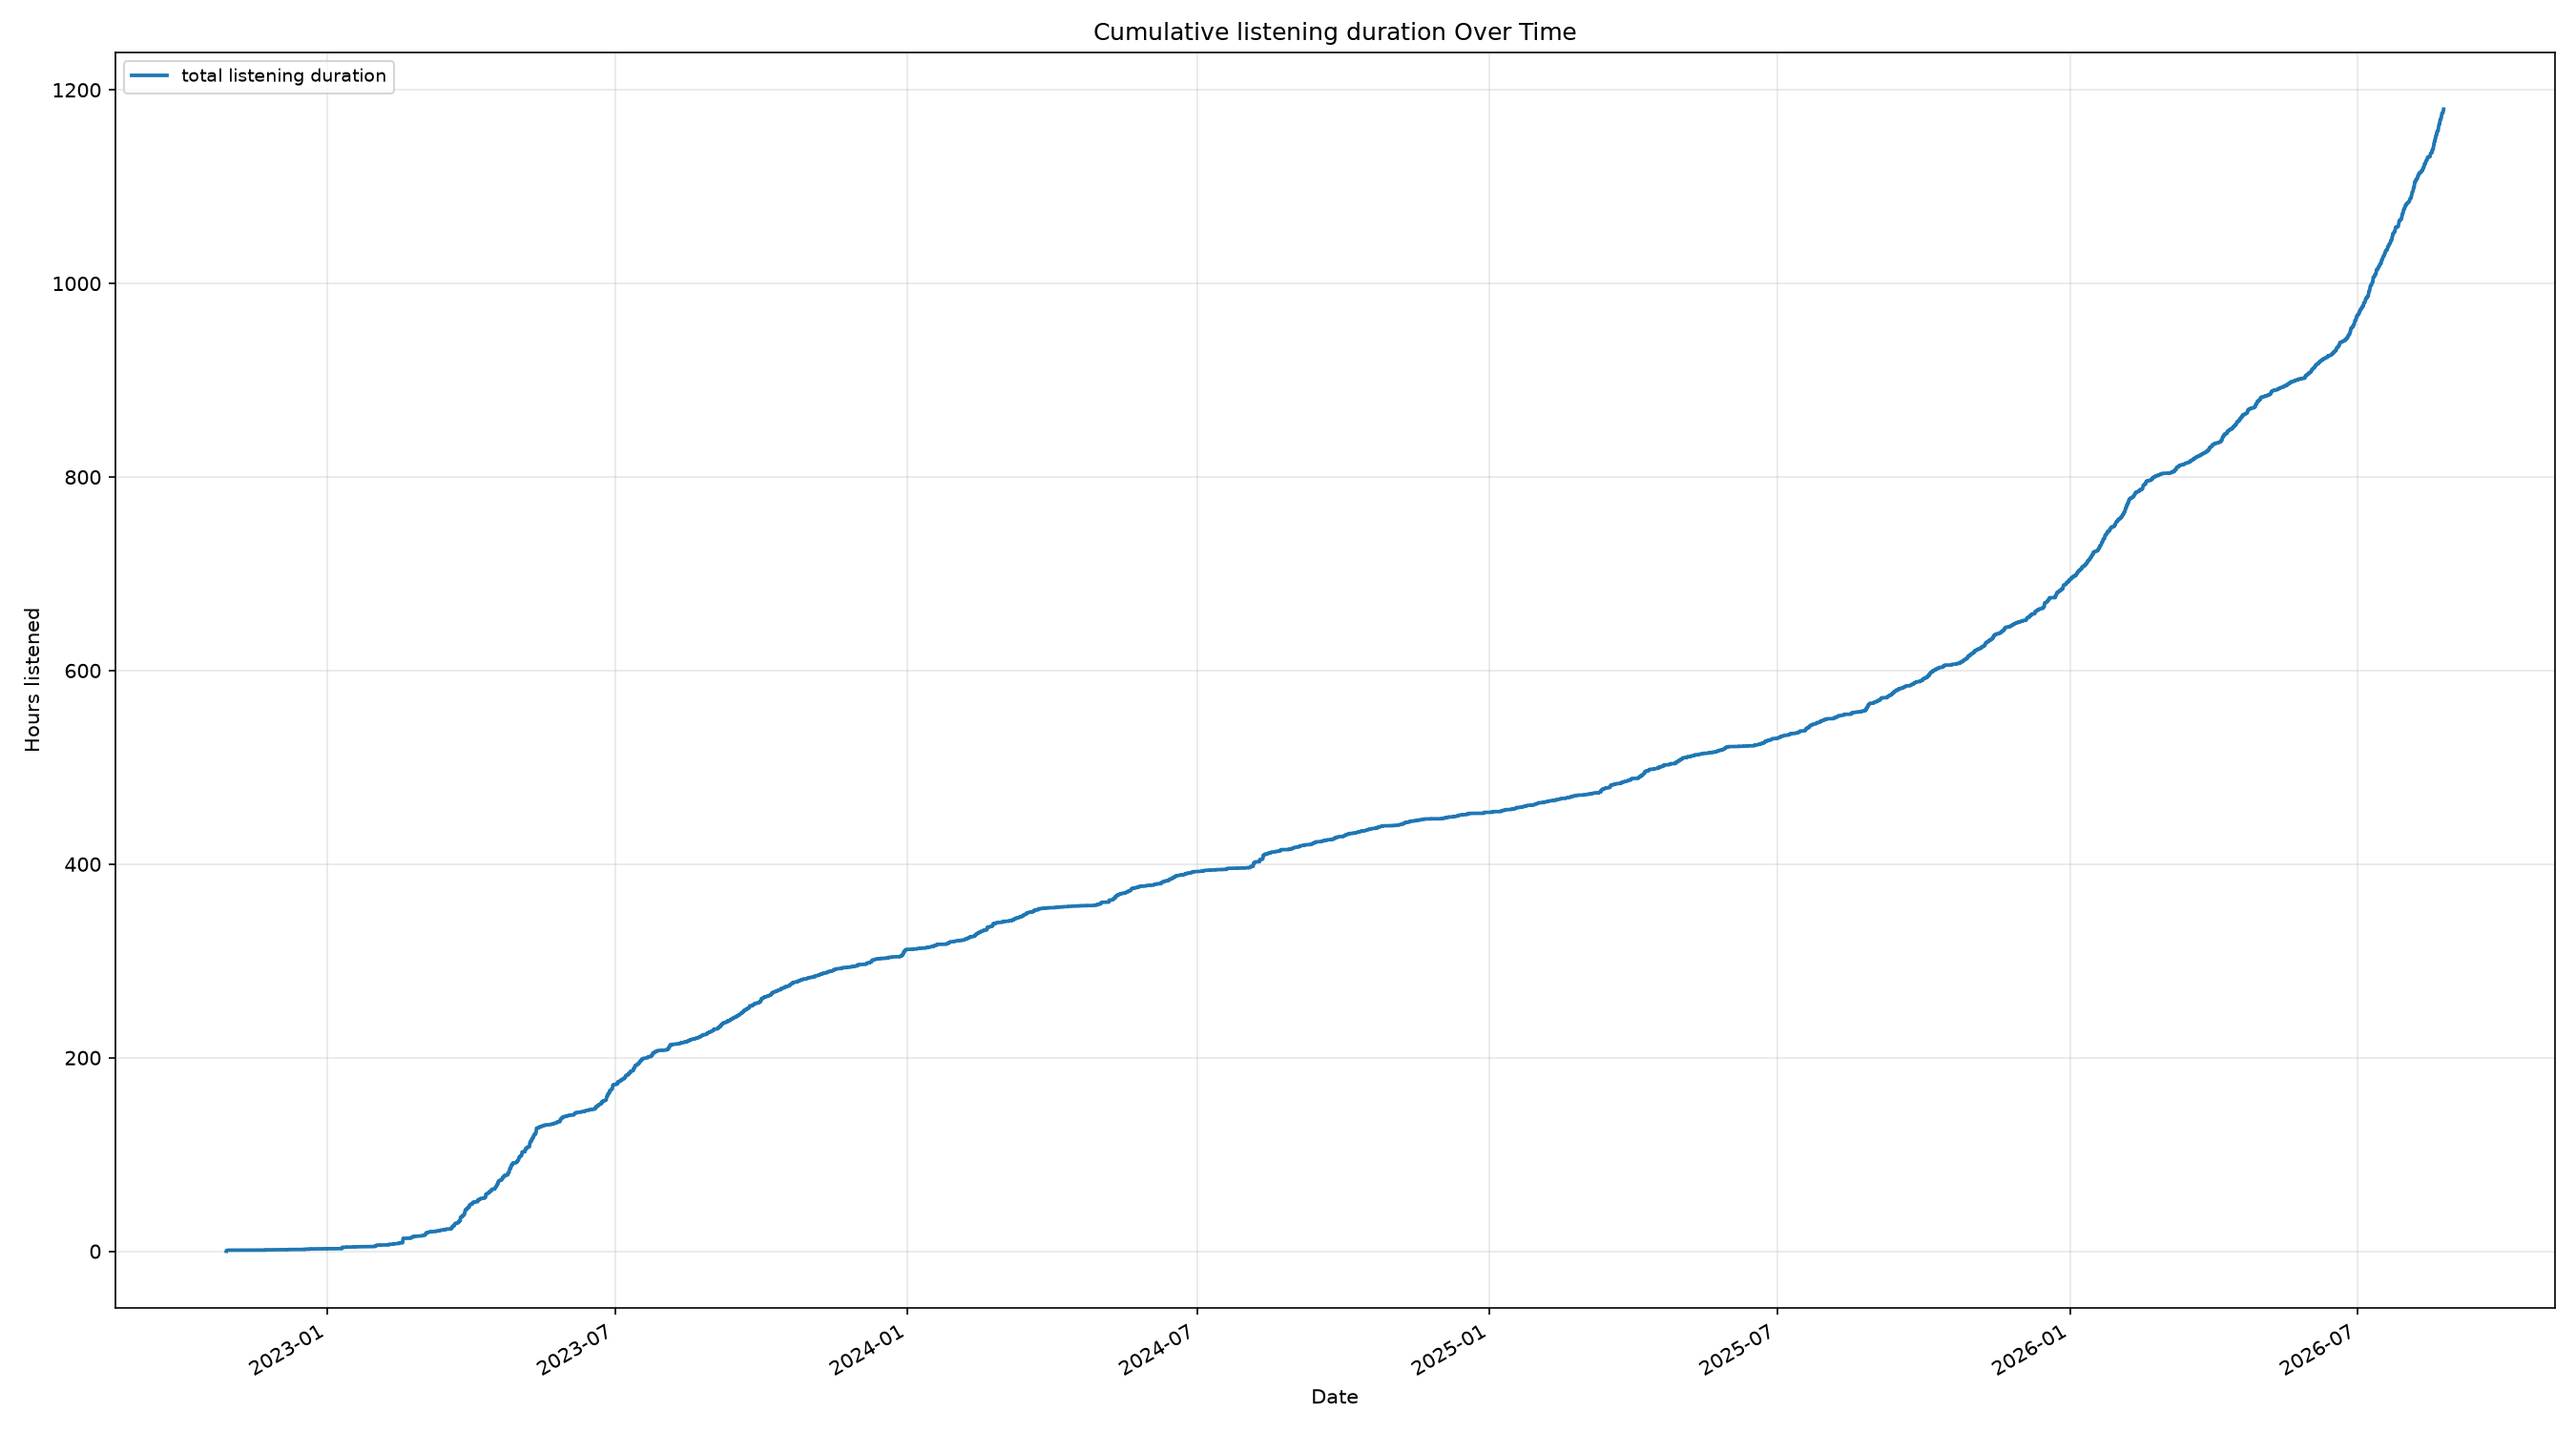
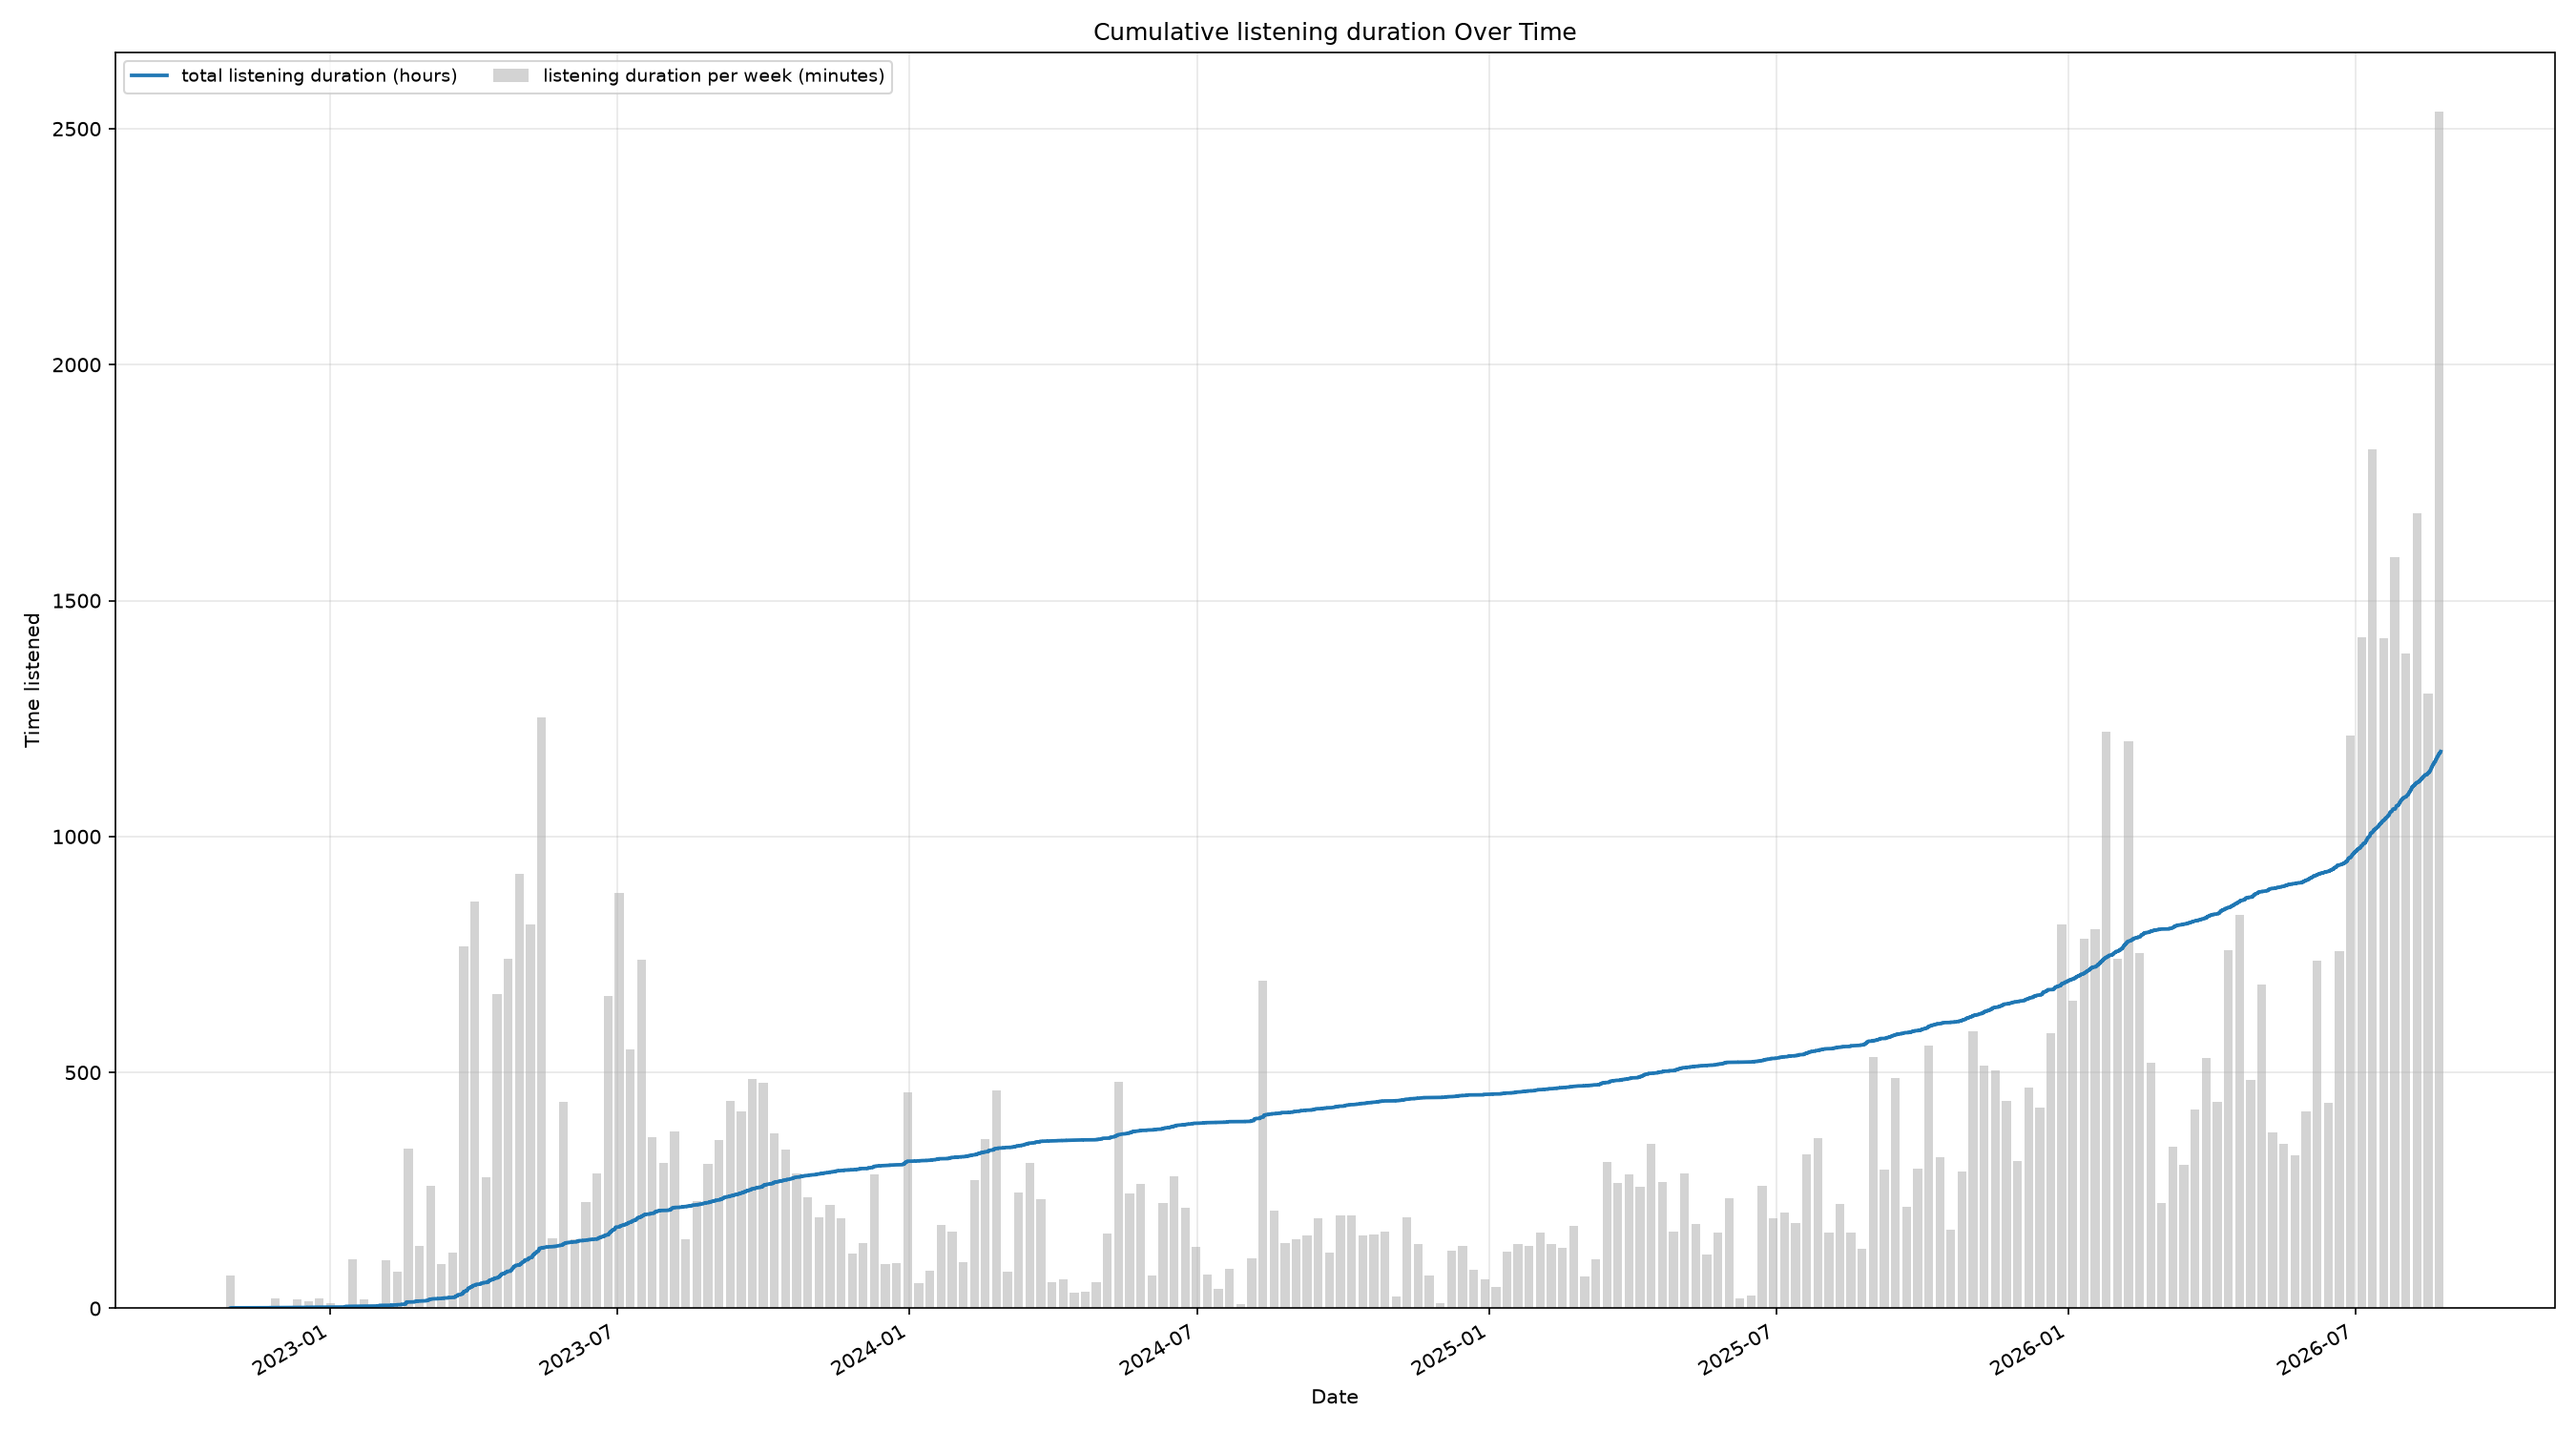
added weekly listening duration to total cumulative listening duration graph

diff --git a/total_cumulative_listening_duration.py b/total_cumulative_listening_duration.py
@@ -16,12 +16,22 @@ pivot = (
 
 cumulative = pivot.cumsum()
 
+weekly_duration = (
+    spotify_df.groupby(pd.Grouper(key="timestamp", freq="W"))
+      ["listening_duration_seconds"]
+      .sum()
+)/60
+
+# print(weekly_duration)
+# print(weekly_duration.sum())
+
 fig, ax = plt.subplots(figsize=(18, 10))
-ax.plot(cumulative.index, cumulative["listen_time_hours"], label="total listening duration", linewidth=1.8)
+ax.plot(cumulative.index, cumulative["listen_time_hours"], label="total listening duration (hours)", linewidth=1.8)
+ax.bar(weekly_duration.index,weekly_duration.values, label=f"listening duration per week (minutes)",color="lightgray",width=(weekly_duration.index[1] - weekly_duration.index[0]).days * 0.8)
  
 ax.set_title(f"Cumulative listening duration Over Time")
 ax.set_xlabel("Date")
-ax.set_ylabel("Hours listened")
+ax.set_ylabel("Time listened")
 ax.legend(loc="upper left", fontsize=9, ncol=2)
 ax.xaxis.set_major_formatter(mdates.DateFormatter("%Y-%m"))
 ax.grid(alpha=0.3)
